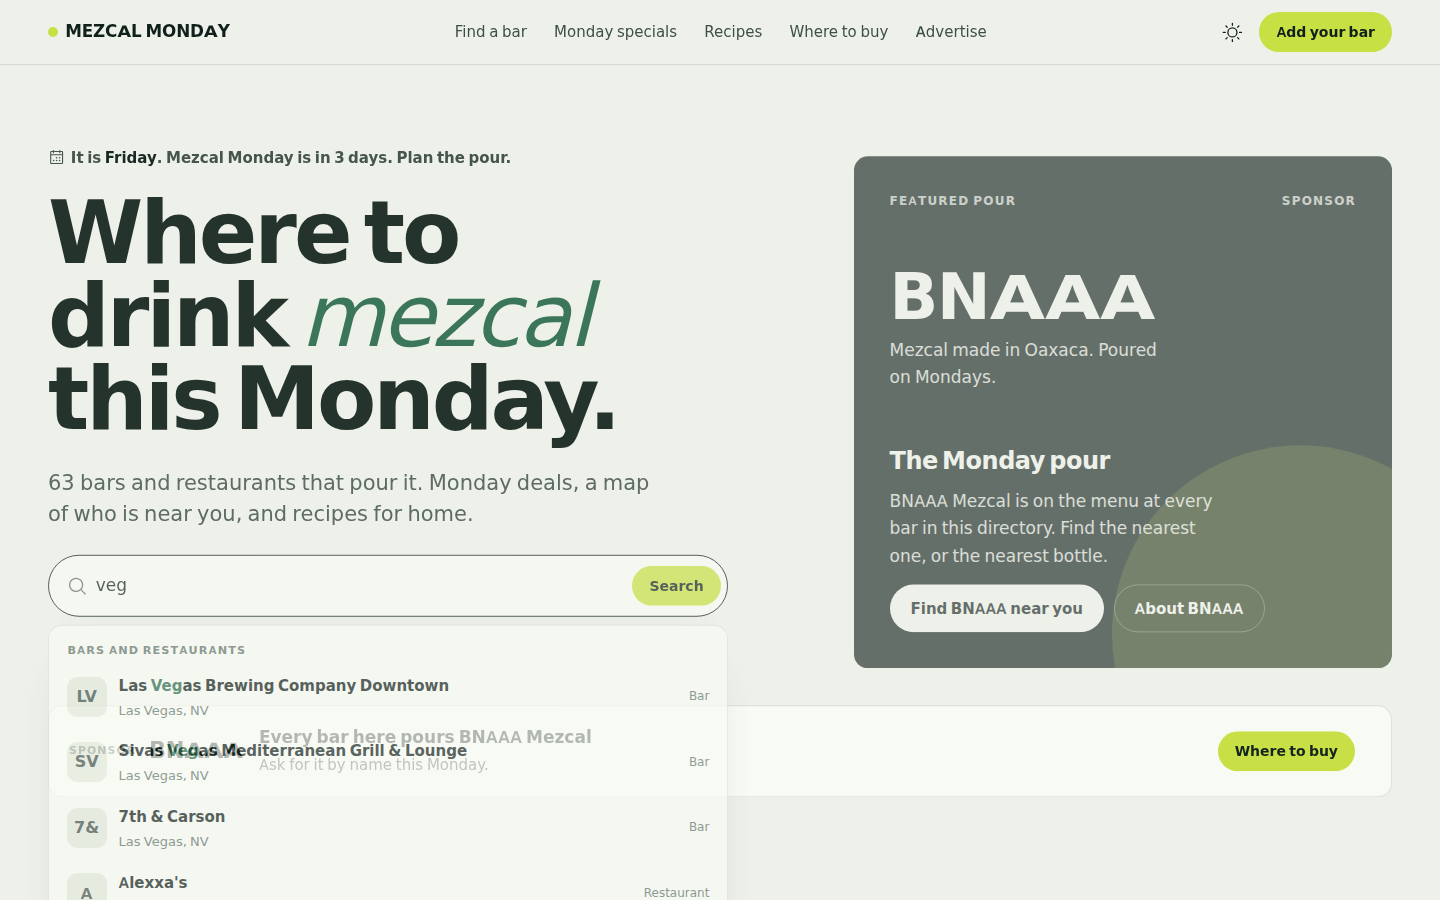
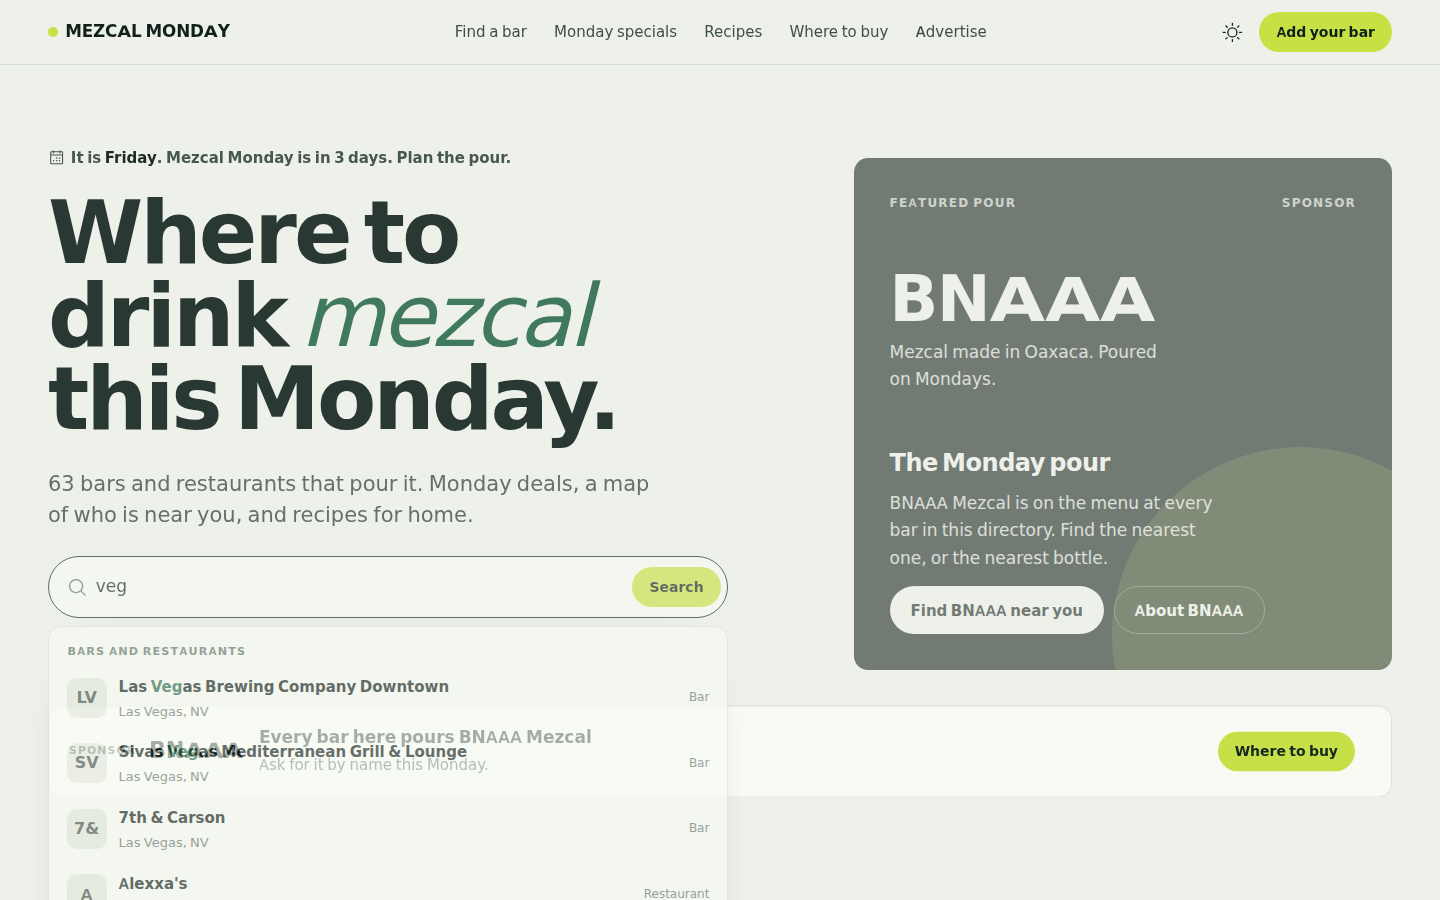
Mezcal Monday: bento rhythm, plural fix, sponsor and recipe image slots
Claude-Session: https://claude.ai/code/session_01LHuBJR1fqentpsrfMC3omL

diff --git a/mezcalmonday/src/css/components.css b/mezcalmonday/src/css/components.css
@@ -350,3 +350,8 @@ html[data-theme="dark"] .cta-band .btn { background: #0C1B16; color: #D2E85A; }
 .toast.is-on { opacity: 1; visibility: visible; transform: translate(-50%, 0); transition: opacity var(--dur) var(--ease-out), transform var(--dur) var(--ease-out); }
 html:not(.reduced):not(.no-js) [data-reveal] { opacity: 0; transform: translateY(18px); }
 html:not(.reduced):not(.no-js) [data-reveal].is-in { opacity: 1; transform: none; transition: opacity 700ms var(--ease-out), transform 700ms var(--ease-out); }
+
+.fp-img { height: 56px; width: auto; max-width: 220px; filter: brightness(0) invert(1); }
+.fp-bottle { position: absolute; right: 1.25rem; bottom: 0; height: 78%; width: auto; object-fit: contain; pointer-events: none; }
+.rfeat-img { width: 100%; aspect-ratio: 4 / 3; object-fit: cover; border-radius: var(--r-in); margin-bottom: 0.4rem; }
+.rcard-img { width: 100%; aspect-ratio: 4 / 3; object-fit: cover; border-radius: var(--r-in); }
